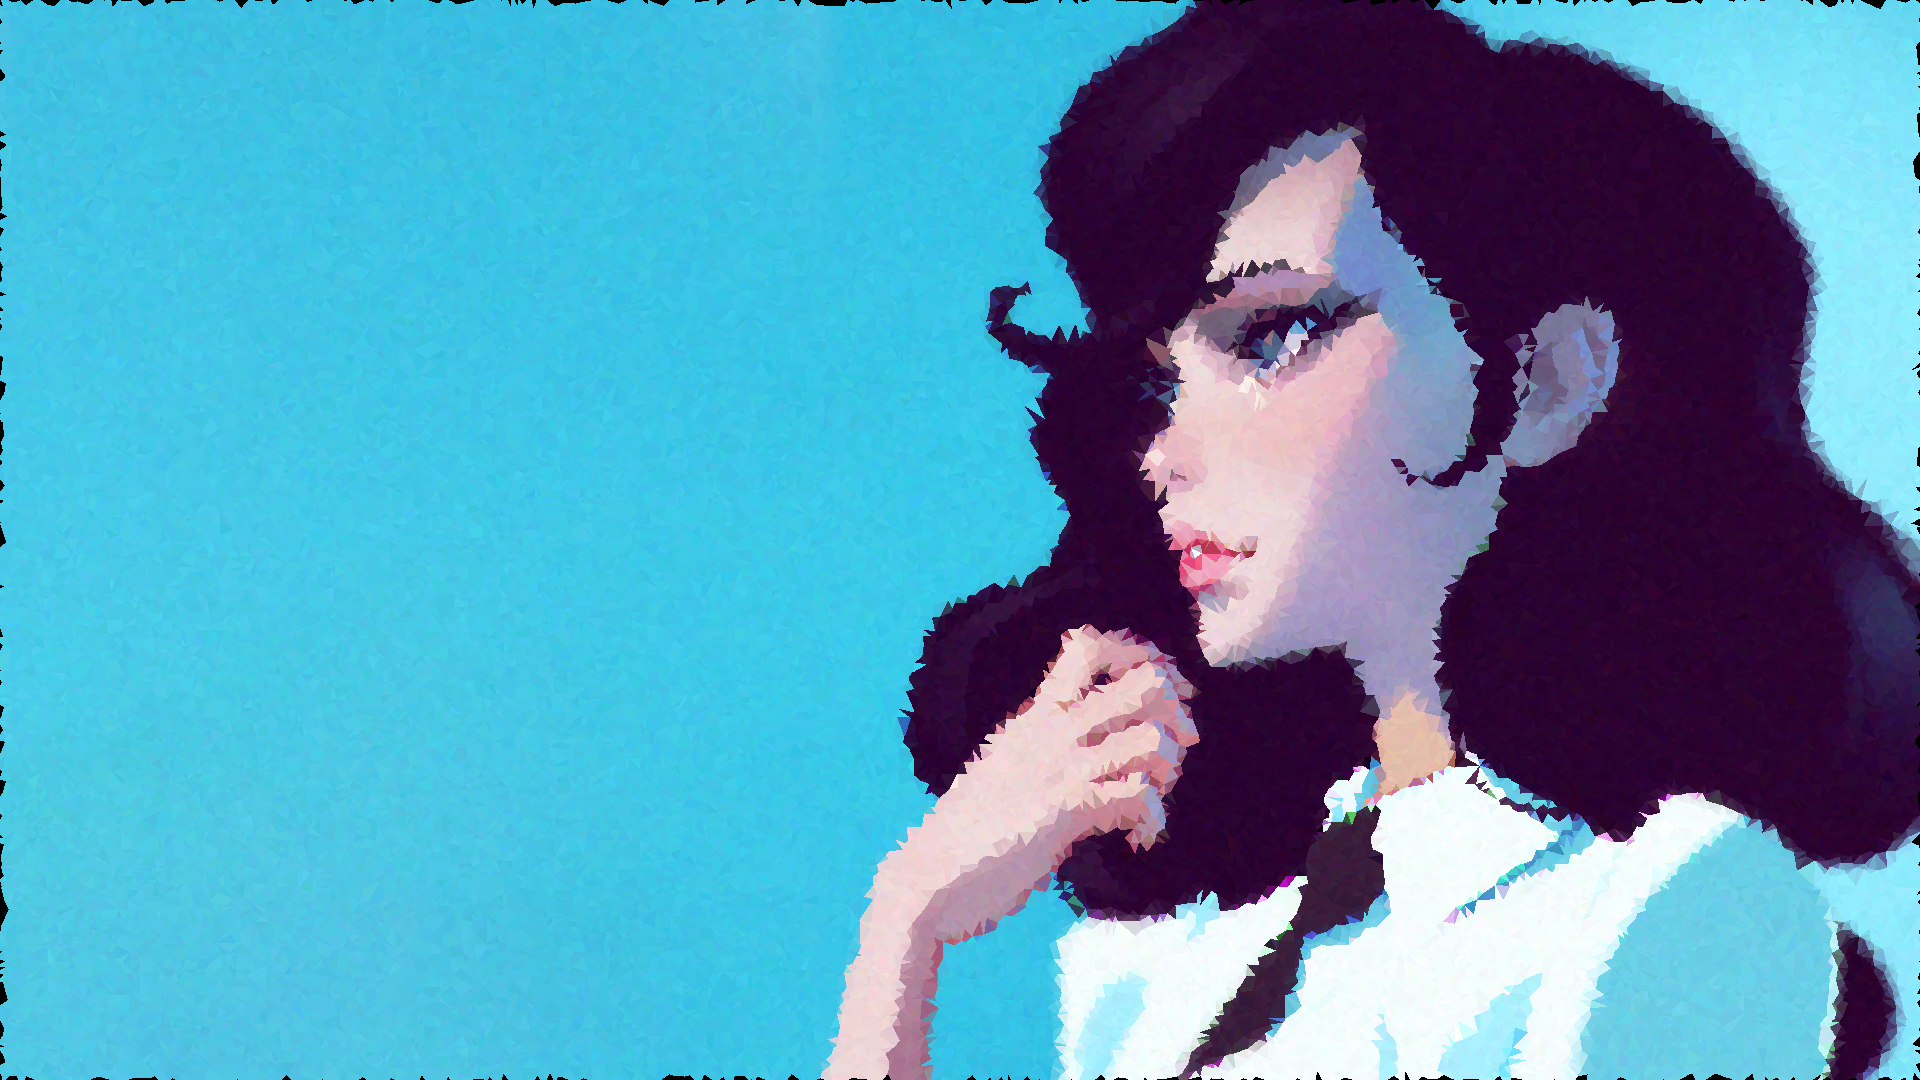
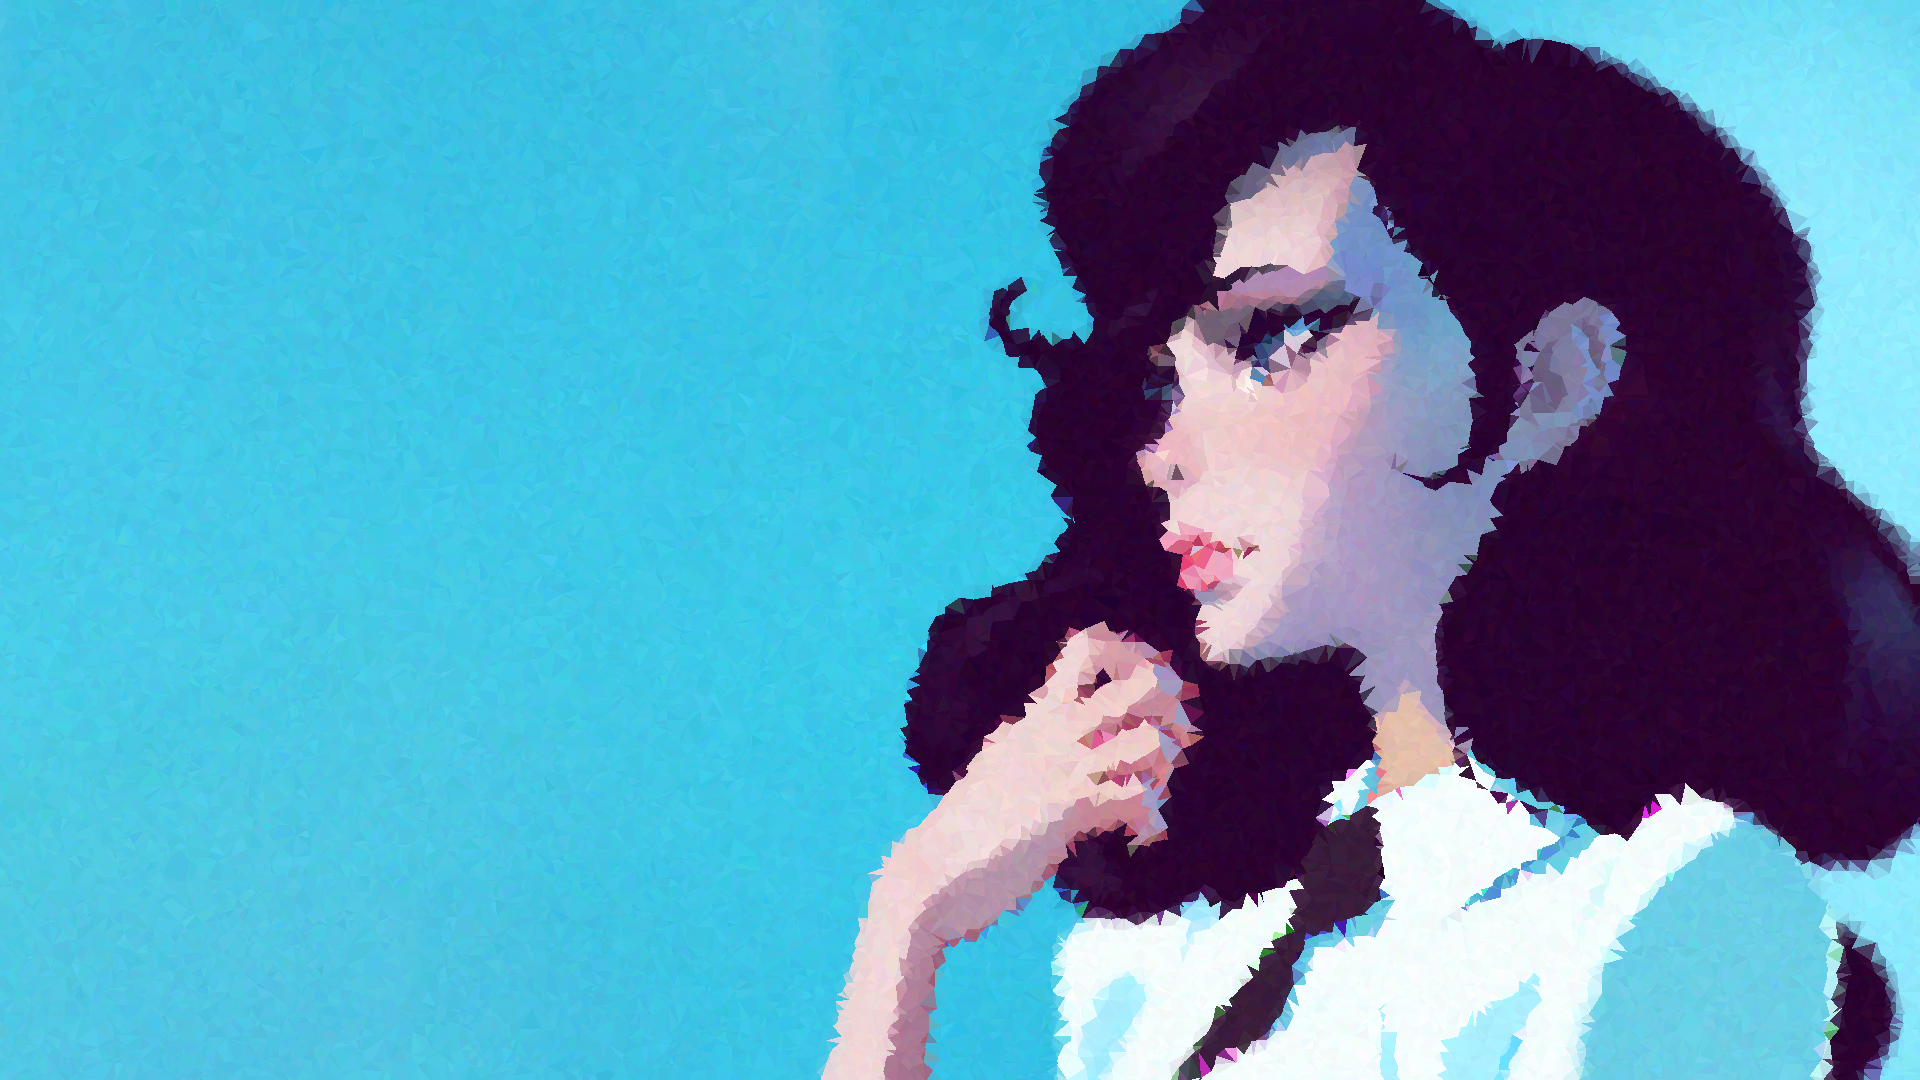
updated README with new option and add example fixes #27

diff --git a/README.md b/README.md
@@ -133,10 +133,10 @@ Usage: wallgen pic poly [OPTIONS] IMAGE
 Options:
   -p, --points INTEGER  number of points to use, default = 1000
   -s, --show            open the image
-  -o, --outline         outline the triangles
+  -o, --outline TEXT    outline the triangles
   -n, --name TEXT       rename the output
+  -sm, --smart          Use smart points
   --help                Show this message and exit.
-  
 ```
 
 ### `wallgen pic shape --help`
@@ -270,6 +270,7 @@ Slants pattern
 
 Using a picture with 50000 points
 
+
 1
 
 <img src="./images/lion.jpg" width="50%">
@@ -284,6 +285,12 @@ Using a picture with 50000 points
 
 <img src="./images/clouds.jpg" width="50%">
 <img src="./images/clouds-poly.png" width="50%">
+
+
+Using a picture with Smart edges
+
+<img src="./images/anime.png" width="50%">
+<img src="./images/anime-smart.png" width="50%">
 
 
 
